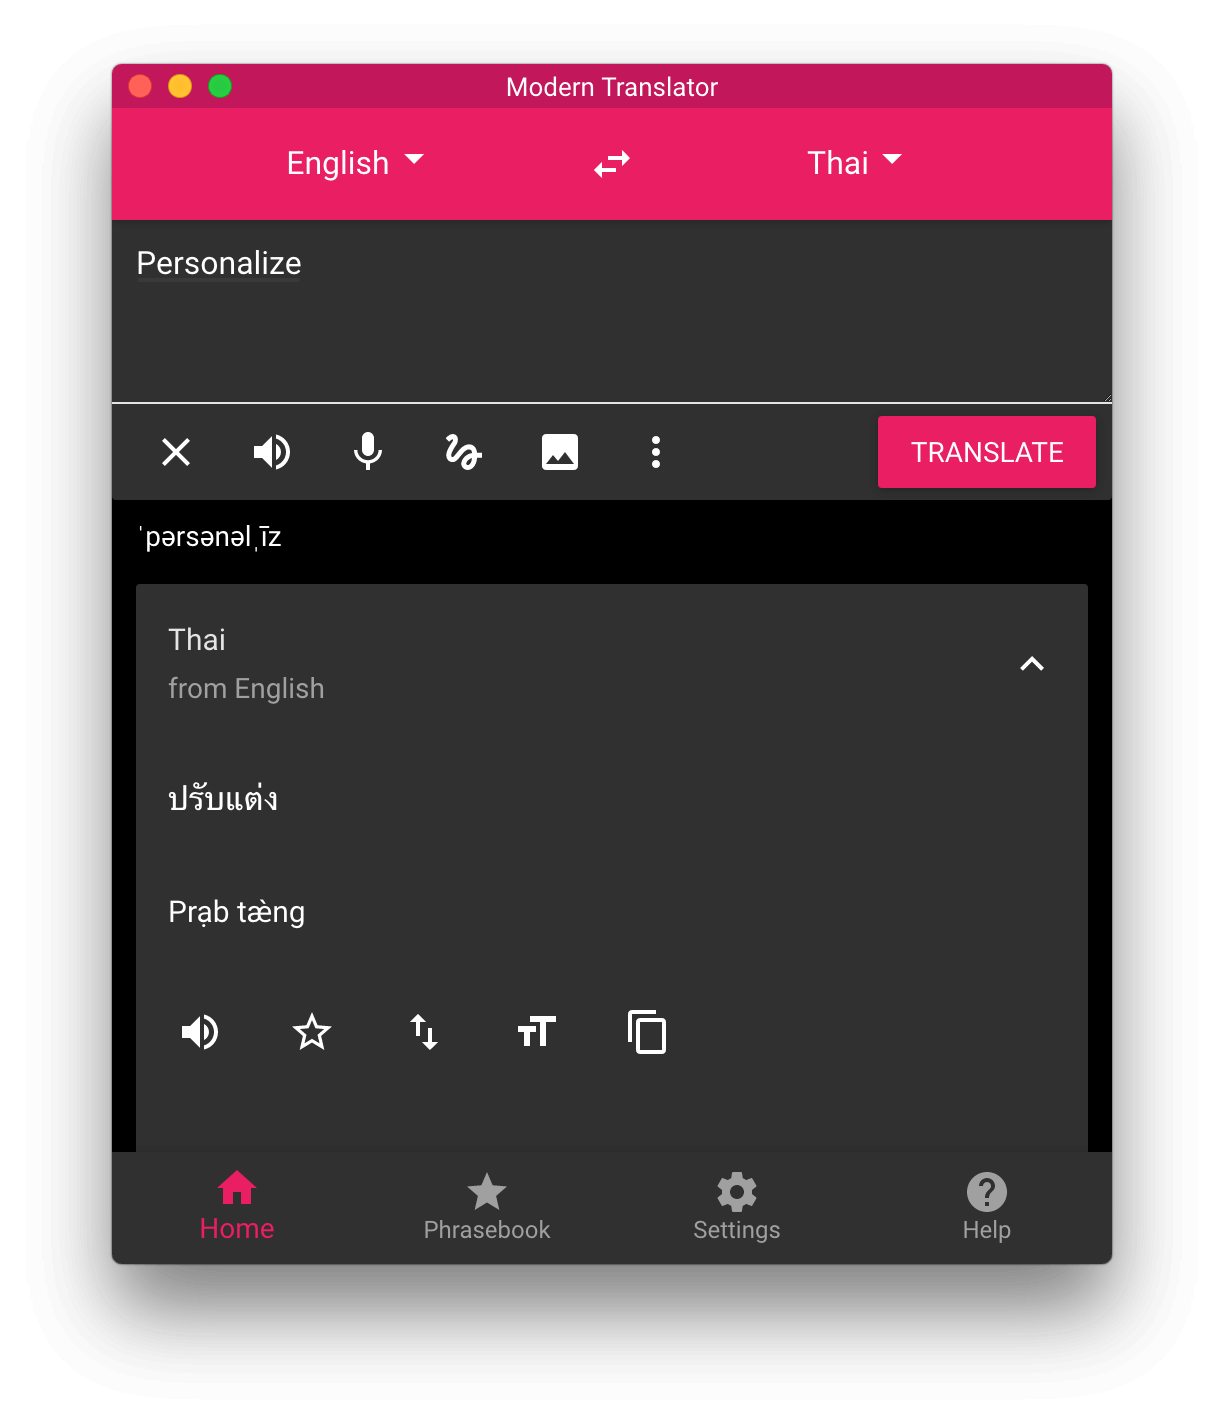
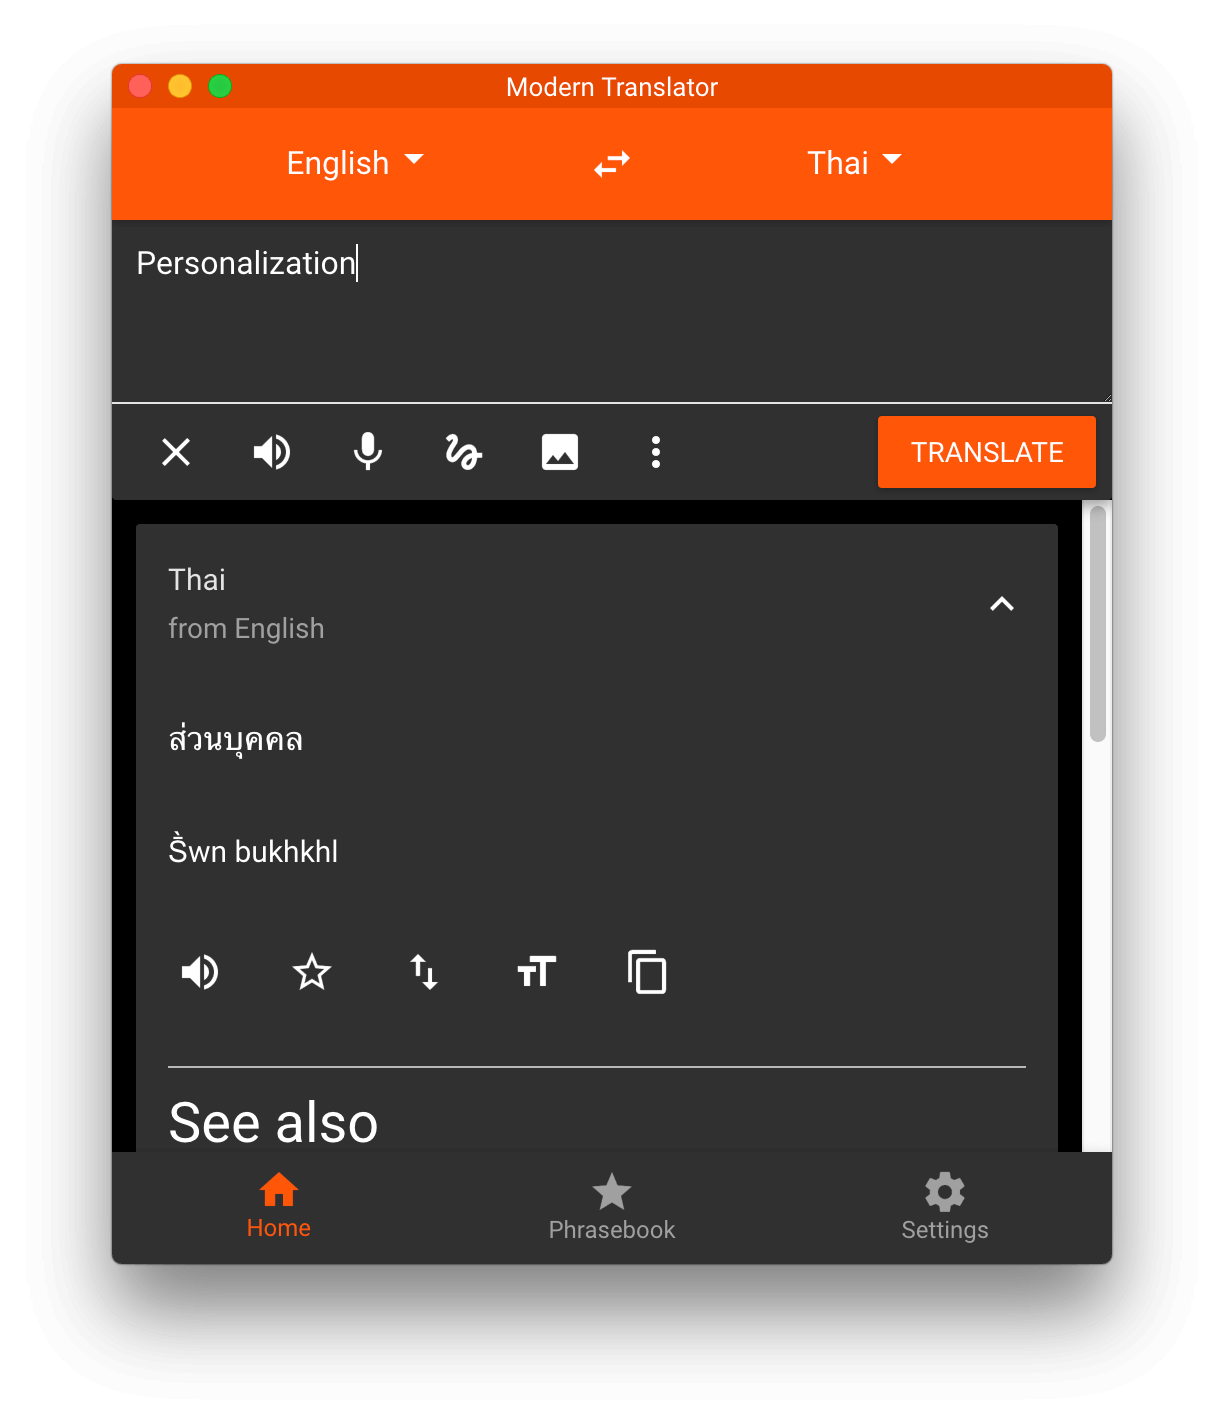
Bulma + Material Design

diff --git a/public/css/bulma-material.sass b/public/css/bulma-material.sass
@@ -1,0 +1,76 @@
+@charset "utf-8"
+
+$blue: #1976D2
+$green: #388E3C
+$orange: #E64A19
+$purple: #7B1FA2
+$red: #D32F2F
+$turquoise: #00796B
+$yellow: #FBC02D
+
+$primary: $green
+
+// Use the new serif family
+$family-primary: "Roboto", san-serif
+
+@import "../../node_modules/bulma/bulma"
+
+$paper_1: rgba(0, 0, 0, 0.12) 0px 1px 6px, rgba(0, 0, 0, 0.12) 0px 1px 4px
+
+body, .section
+  background-color: #F5F5F5
+
+.hero.top-nav
+  .hero-head
+    box-shadow: $paper_1
+  .nav
+    box-shadow: none
+    height: 64px
+    box-shadow: none !important
+  .nav-toggle
+    height: 64px
+    width: 64px
+  .nav-item
+    &.logo
+      padding-top: 0
+      padding-bottom: 0
+      img
+        max-height: 52px
+
+    .image.profile-picture
+      margin-right: 8px
+      img
+        max-height: inherit
+        border-radius: 16px
+
+
+.title
+  font-weight: 400
+
+.footer
+  background-color: $primary
+  padding: 40px 20px 80px
+  p, a
+    color: #fff !important
+  a:hover
+    text-decoration: underline
+  ul.footer-items
+    list-style-type: none
+    +tablet
+      display: flex
+      justify-content: center
+    li
+      +tablet
+        float: left
+        margin-right: 16px
+        margin: 0 16px 0 0
+        padding: 0
+
+
+.button, .message, .card
+  transition: box-shadow 0.3s ease-in-out
+  &:hover
+    box-shadow: rgba(0, 0, 0, 0.16) 0px 3px 10px, rgba(0, 0, 0, 0.23) 0px 3px 10px
+
+.message, .pagination-previous, .pagination-next, .pagination-link, .pagination-ellipsis
+  background-color: #fff

diff --git a/public/css/app.sass b/public/css/app.sass
@@ -1,31 +1,4 @@
-@charset "utf-8"
-
-$blue: #2196F3
-$green: #43A047
-$orange: #FF5722
-$purple: #9C27B0
-$red: #F44336
-$turquoise: #009688
-$yellow: #FFEB3B
-
-@import "../../node_modules/bulma/bulma"
-
-.footer
-  background-color: whitesmoke
-  padding: 40px 20px 80px
-  ul.footer-items
-    list-style-type: none
-    +tablet
-      display: flex
-      justify-content: center
-    li
-      +tablet
-        float: left
-        margin-right: 16px
-        margin: 0 16px 0 0
-        padding: 0
-      a
-        color: $green !important
+@import "./bulma-material"
 
 .nav-item img
   margin-left: 12px

diff --git a/public/_privacy.md b/public/_privacy.md
@@ -14,7 +14,7 @@ In addition, the Application may collect certain information automatically, incl
 This Application does not collect precise information about the location of your mobile device.
 
 ## Do third parties see and/or have access to information obtained by the Application?
-Only aggregated, anonymized data is periodically transmitted to external services (translate.google.com, translate.google.cn (if China Mode is turned on) and ocr.space) to help us operate and improve the Application and our service. We will share your information with third parties only in the ways that are described in this privacy statement.
+Only aggregated, anonymized data is periodically transmitted to external services (translate.google.com, translate.google.cn (if China Mode is turned on), sentry.io and ocr.space) to help us operate and improve the Application and our service. We will share your information with third parties only in the ways that are described in this privacy statement.
 
 We may disclose User Provided and Automatically Collected Information:
 * as required by law, such as to comply with a subpoena, or similar legal process;
